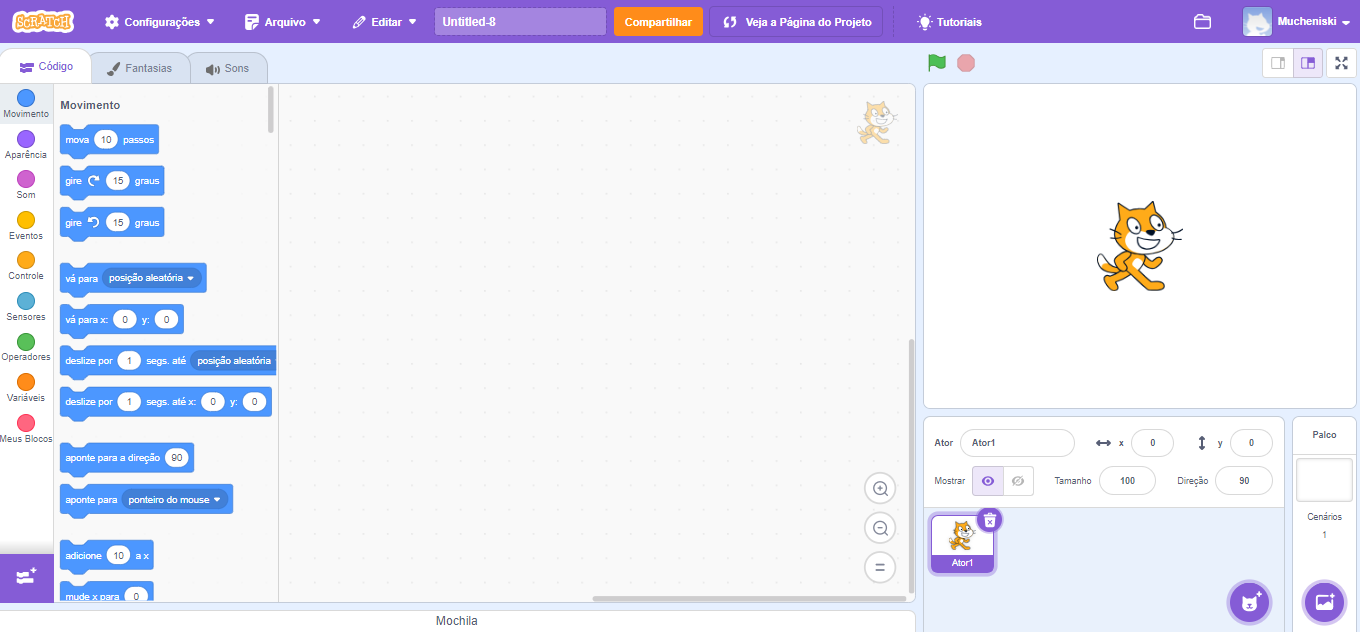
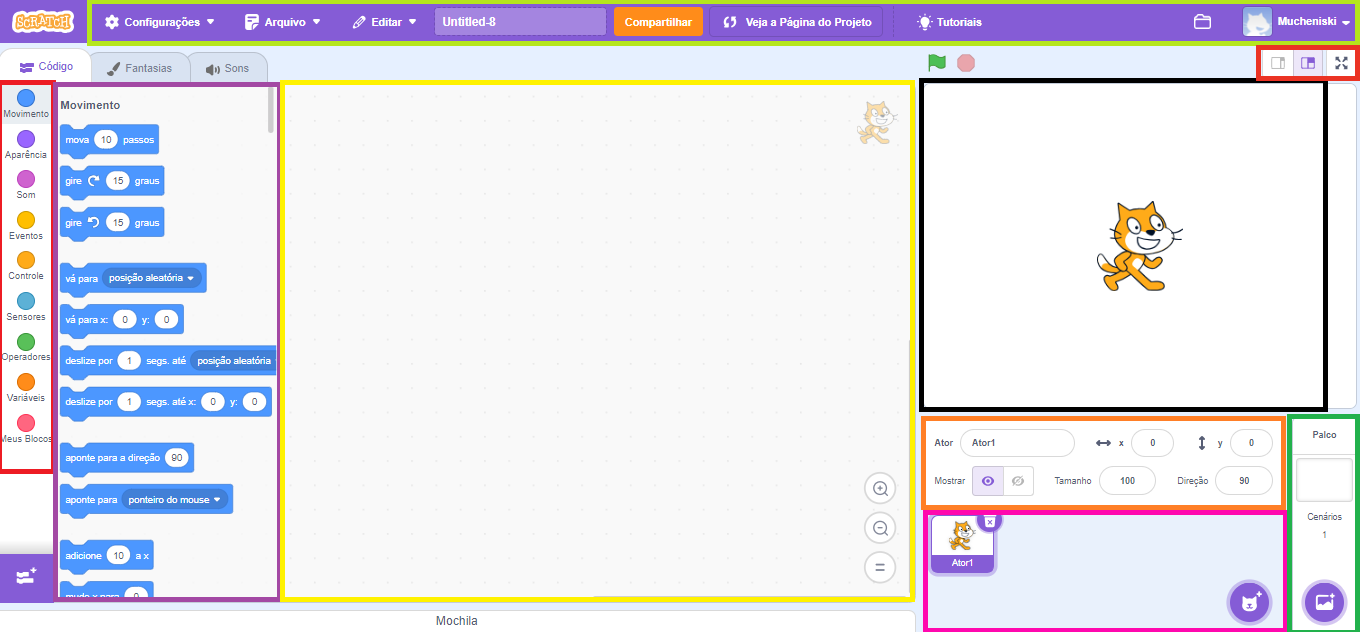
feat: 28-01 modificando css da página scratch

Changed region(s): [[0.0, 0.0, 1.0, 1.0]]

diff --git a/assets/html_paginas/scratch.html b/assets/html_paginas/scratch.html
@@ -29,7 +29,7 @@
 
 
     <div class="img_top">
-        <img src="/assets/img/mario.jpg" alt="">
+        <img src="/assets/img_pagina2/img_top.png" alt="">
     </div>
 
     <div class="decoracao"></div>
@@ -46,10 +46,10 @@
             É possível que você baixe o Scratch para desktop ou você pode criar uma conta na plataforma online, onde
             você poderá publicar suas criações para a comunidade e ainda se destacar com seus projetos. O Scratch para
             desktop não é nescessário criar conta e todos os seus projetos são salvos no seu computador.
-            <div class="links_top">
-                <a href="https://scratch.mit.edu/download">Download para Desktop</a>
-                <a href="https://scratch.mit.edu/join"> Inscreva-se</a>
-            </div>
+        <div class="links_top">
+            <a href="https://scratch.mit.edu/download">Download para Desktop</a>
+            <a href="https://scratch.mit.edu/join"> Inscreva-se</a>
+        </div>
         </p>
 
 
@@ -57,7 +57,26 @@
             <h3>Página principal do Scratch:</h3>
             <div class="tutorial">
                 <p>Apresentando todas as ferramentas da página principal da plataforma: </p>
-                <img src="/assets/img_pagina2/img1.png" alt="">
+                <img src="/assets/img_pagina2/img1.png" class="tela_cheia" alt="">
+                <p>No topo da página se encontram as seguintes ferramentas:</p>
+                <ul class="ferramentas_topo">
+                    <li>
+                        Configurações: você pode configurar o idioma da página e as cores a serem exibidas.
+                    </li>
+                    <li>
+                        Arquivo: você pode criar um novo arquivo, salvar o que está sendo editado, salvar uma cópia,
+                        carregar arquivos do seu computador ou salvar arquivos no seu computador.
+                    </li>
+                    <li>
+                        Editar: nessa aba você pode ligar o modo turbo no seu projeto e seu código será executado de
+                        forma
+                        muito rápida.
+                    </li>
+                    <li>
+                        Renomear: logo ao lado de 'editar' podemos renomear o nosso arquivo, basta apagar o nome padrão
+                        que a página trás e colocar o seu.
+                    </li>
+                </ul>
 
             </div>
 

diff --git a/assets/css_paginas/scratch.css b/assets/css_paginas/scratch.css
@@ -94,6 +94,52 @@ main p {
   font-size: var(--tamanho-padrao-letras);
 }
 
+.links_top a {
+  font-size: .8em;
+  text-decoration: none;
+  color: white;
+
+}
+
+.links_top {
+  position: relative;
+  width: 15em;
+  height: 1.5em;
+  margin: 2em auto;
+  padding: 1em;
+  display: flex;
+  gap: 1.6em;
+  align-items: center;
+  justify-content: center;
+  background-color: rgba(12, 12, 235);
+  border-radius: 3px;
+}
+
+.links_top::before, .links_top::after {
+    content: '';
+    position: absolute;
+    width: calc(100% + 20px);
+    height: calc(100% + 20px);
+    background: linear-gradient(45deg, orange, rgb(207, 109, 29), rgb(177, 174, 11), rgb(235, 231, 11));
+    z-index: -1;
+    background-size: 300%;
+    border-radius: 5px;
+    animation: AnimarBorda 8s linear infinite;
+}
+
+.links_top::after {
+  filter: blur(5px);
+}
+
+@keyframes AnimarBorda {
+  0% {
+    background-position: 0;
+  }
+  100% {
+    background-position: 300%;
+  }
+}
+
 .artigo {
   margin: 0 auto 0;
 }
@@ -128,6 +174,12 @@ main p {
   width: 85%;
   box-shadow: 2px 3px 3px 1px;
   margin-bottom: 1em;
+}
+
+.ferramentas_topo {
+  list-style:decimal;
+  font-size: .8em;
+  text-align: left;
 }
 
 footer {
@@ -255,7 +307,7 @@ footer .icones_redes {
   }
 
   .tutorial img {
-      width: 20%;
+      width: 65%;
   }
 
   .tutorial p {
@@ -266,6 +318,12 @@ footer .icones_redes {
       max-width: 50em;
       margin: 0 auto;
       border-radius: 0 0 5px 5px;
+  }
+
+  .links_top {
+    width: 30em;
+    gap: 10em;
+    margin: 2.5em auto;
   }
 
   
